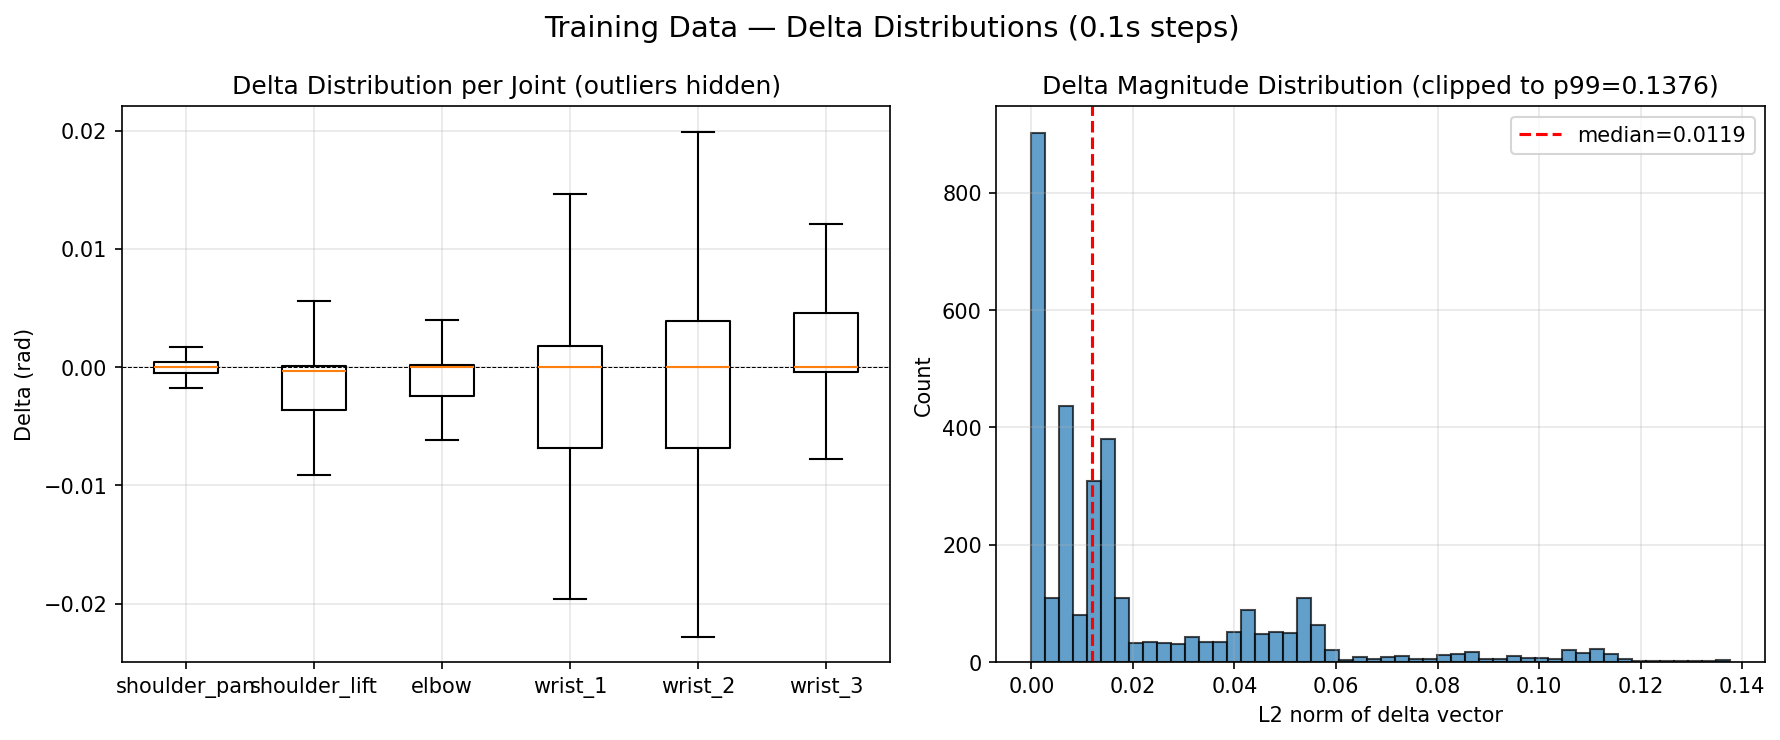
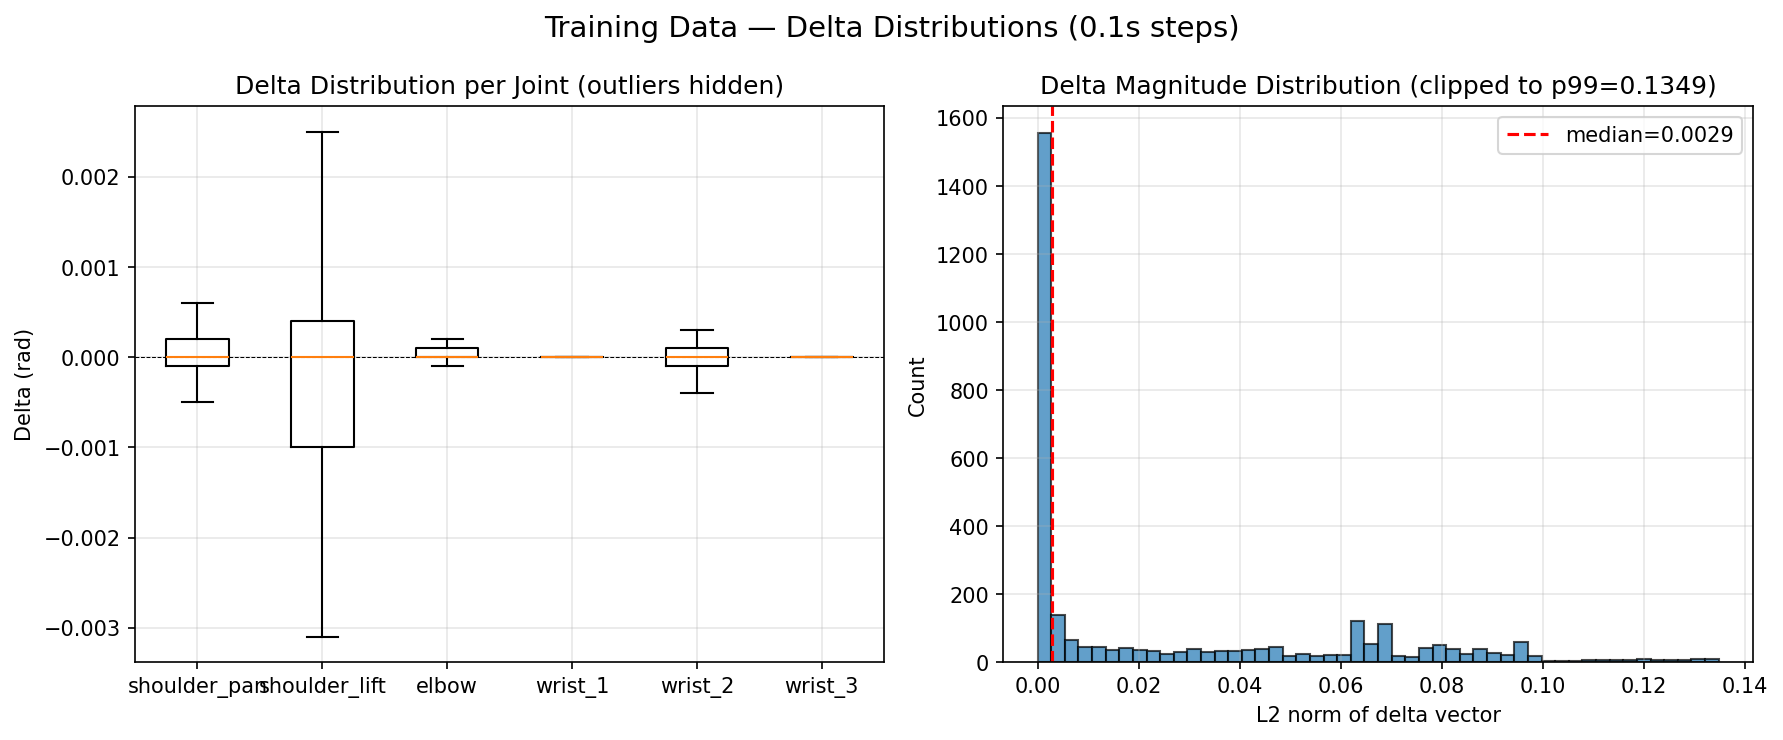
episode plots

diff --git a/scripts/analyze_training_episodes.py b/scripts/analyze_training_episodes.py
@@ -6,8 +6,10 @@ a "Training Data Analysis" section to the eval datadump markdown file.
 
 Usage (run from the VLA_Arm_Controller .venv):
     .venv/bin/python scripts/analyze_training_episodes.py
+    .venv/bin/python scripts/analyze_training_episodes.py --episode episode_003
 """
 
+import argparse
 import os
 from datetime import datetime
 
@@ -109,16 +111,20 @@ def read_episode_joint_states(episode_dir: str, resample_dt: float = 0.1):
     return sample_times, raw_pos[indices]
 
 
-def load_all_episodes():
-    """Load joint states from all training episodes.
+def load_all_episodes(episode_filter=None):
+    """Load joint states from training episodes.
 
+    If episode_filter is given (e.g. "episode_003"), only that episode is loaded.
     Returns a dict with per-episode data and aggregate arrays.
     """
     episodes = {}
     all_deltas_list = []
 
     for i in range(1, 11):
-        ep_dir = os.path.join(TRAINING_DATA_DIR, f"episode_{i:03d}")
+        ep_name = f"episode_{i:03d}"
+        if episode_filter is not None and ep_name != episode_filter:
+            continue
+        ep_dir = os.path.join(TRAINING_DATA_DIR, ep_name)
         if not os.path.isdir(ep_dir):
             print(f"Skipping {ep_dir} (not found)")
             continue
@@ -372,7 +378,15 @@ def append_to_markdown(episodes, all_deltas, magnitudes):
 
 
 def main():
-    episodes, all_deltas = load_all_episodes()
+    parser = argparse.ArgumentParser(description=__doc__, formatter_class=argparse.RawDescriptionHelpFormatter)
+    parser.add_argument(
+        "--episode",
+        metavar="NAME",
+        help="Only analyze this episode (e.g. episode_003). Omit to analyze all.",
+    )
+    args = parser.parse_args()
+
+    episodes, all_deltas = load_all_episodes(episode_filter=args.episode)
 
     if not episodes:
         print("No episodes found. Exiting.")

diff --git a/thoughts/Model Finetuning Eval Datadump 032226.md b/thoughts/Model Finetuning Eval Datadump 032226.md
@@ -227,39 +227,39 @@ The Raw Action Deltas plot confirms this — each inference chunk produces a sma
 
 ## Training Data Analysis — Ground-Truth Demonstration Deltas
 
-**Date:** 2026-03-27
-**Episodes:** episode_001 through episode_001 (1 total)
+**Date:** 2026-03-28
+**Episodes:** episode_001 through episode_010 (10 total)
 **Task:** "lift the arm up"
-**Total Samples (resampled at 0.1s):** 435
-**Total Delta Samples:** 434
+**Total Samples (resampled at 0.1s):** 3,156
+**Total Delta Samples:** 3,146
 
 > Positions are resampled from raw bag data to 0.1s intervals via nearest-neighbor
 > lookup. This matches the eval waypoint cadence, so deltas are directly comparable
 > without normalization.
 
-### Per-Joint Delta Statistics (across all 1 episodes)
+### Per-Joint Delta Statistics (across all 10 episodes)
 
 | Joint | Mean Delta (rad) | Std (rad) |
 |---|---|---|
-| shoulder_pan | -0.000015 | 0.000270 |
-| shoulder_lift | -0.003518 | 0.003514 |
-| elbow | 0.000200 | 0.000195 |
-| wrist_1 | -0.003918 | 0.003770 |
-| wrist_2 | -0.006003 | 0.005769 |
-| wrist_3 | 0.002646 | 0.002546 |
+| shoulder_pan | 0.001611 | 0.025264 |
+| shoulder_lift | -0.002428 | 0.014045 |
+| elbow | -0.000018 | 0.004980 |
+| wrist_1 | -0.002330 | 0.012607 |
+| wrist_2 | -0.004043 | 0.021125 |
+| wrist_3 | 0.001600 | 0.023262 |
 
-**Magnitude summary:** median=0.0115, mean=0.0085, max=0.0238
+**Magnitude summary:** median=0.0029, mean=0.0270, max=0.2007
 
 ### Comparison: Training Deltas vs Model Output (Eval Run 2)
 
 | Joint | Training Mean | Training Std | Eval Run 2 Mean | Eval Run 2 Std | Mean Ratio |
 |---|---|---|---|---|---|
-| shoulder_pan | -0.000015 | 0.000270 | 0.000673 | 0.006562 | -44.2x |
-| shoulder_lift | -0.003518 | 0.003514 | -0.000453 | 0.004207 | 0.1x |
-| elbow | 0.000200 | 0.000195 | 0.000273 | 0.002130 | 1.4x |
-| wrist_1 | -0.003918 | 0.003770 | -0.004702 | 0.009731 | 1.2x |
-| wrist_2 | -0.006003 | 0.005769 | -0.003658 | 0.007141 | 0.6x |
-| wrist_3 | 0.002646 | 0.002546 | 0.001193 | 0.004223 | 0.5x |
+| shoulder_pan | 0.001611 | 0.025264 | 0.000673 | 0.006562 | 0.4x |
+| shoulder_lift | -0.002428 | 0.014045 | -0.000453 | 0.004207 | 0.2x |
+| elbow | -0.000018 | 0.004980 | 0.000273 | 0.002130 | -14.8x |
+| wrist_1 | -0.002330 | 0.012607 | -0.004702 | 0.009731 | 2.0x |
+| wrist_2 | -0.004043 | 0.021125 | -0.003658 | 0.007141 | 0.9x |
+| wrist_3 | 0.001600 | 0.023262 | 0.001193 | 0.004223 | 0.7x |
 
 ### Plots
 
